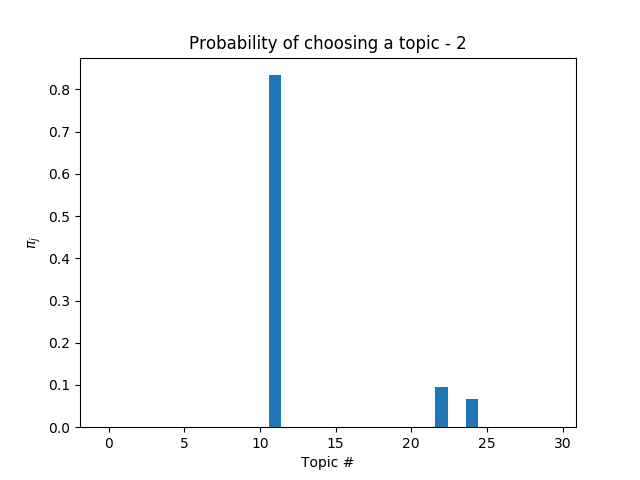
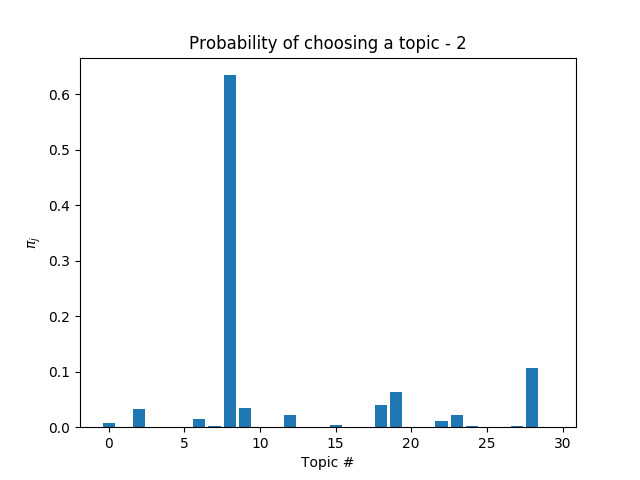
merge

diff --git a/hw6/nips.py b/hw6/nips.py
@@ -8,8 +8,8 @@ import matplotlib.pyplot as plt
 np.set_printoptions(threshold=np.nan)
 epsilon  = 10.**-3
 
-SUBSET_DOC = 500
-SUBSET_WORDS = 100
+SUBSET_DOC = 1500  #500 for smaller set 
+SUBSET_WORDS = 12419  #100 for smaller set
 
 
 class Theta(object):
@@ -36,7 +36,7 @@ class Theta(object):
 
 
     def get_z(self, x):
-        print "get_z"
+        print ("get_z")
         z = np.zeros((x.shape[0], self.num_topics))
         for i in range(x.shape[0]):
             if(i%50 == 0):
@@ -46,20 +46,20 @@ class Theta(object):
                 for k in range(self.num_words):
                     z[i,j] += (x[i,k] * np.log(self.pvec[j,k]))
         if(np.any(z == np.nan)):
-            print "Error Apple"
+            print ("Error Apple")
             exit(1)
         return z
 
 
     def get_d(self, z):
-        print "get_d"
+        print ("get_d")
         d = np.zeros(z.shape[0])
         for i in range(z.shape[0]):
             d[i] = np.amax(z[i])
         return d
 
     def get_w(self, x):
-        print "get_w"
+        print ("get_w")
         z = self.get_z(x)
         d = self.get_d(z)
         w = np.zeros((x.shape[0], self.num_topics))
@@ -67,12 +67,12 @@ class Theta(object):
             for j in range(self.num_topics):
                 w[i, j] = np.exp(z[i,j] - d[i])
         if(np.any(w == np.nan)):
-            print "Error Banana"
+            print ("Error Banana")
             exit(1)
         for i in range(x.shape[0]):
             w[i] = w[i]/np.sum(w[i])
         if(np.any(w == np.nan)):
-            print "Error Cherry"
+            print ("Error Cherry")
             exit(1)
 
         return w
@@ -161,10 +161,13 @@ for iteration in range(30):
     plt.title("Probability of choosing a topic - " + str(iteration))
     plt.savefig("./charts/nips-test-" + str(iteration))
     plt.close(fig)
-print "All Done"
+
 
 top_words = theta.get_top_words()
-    for j in range(num_topics):
-        print("\ttopic: " + str(j))
-        for k in range(10):
-            print("\t\t" + str(k) + "the most popular word:" + str(dictionary[top_words[0,j,k].astype(int)]) + " with probability: " + str(top_words[1,j,k]))
+for j in range(num_topics):
+	print("\ttopic: " + str(j))
+	for k in range(10):
+ 		print("\t\t" + str(k) + "the most popular word:" + str(dictionary[top_words[0,j,k].astype(int)]) + " with probability: " + str(top_words[1,j,k]))
+
+print ("All Done")
+

diff --git a/hw6/nips2.py b/hw6/nips2.py
@@ -17,4 +17,3 @@ smallsunset = misc.imread("part2images/smallsunset.png")
 
 
 
-
